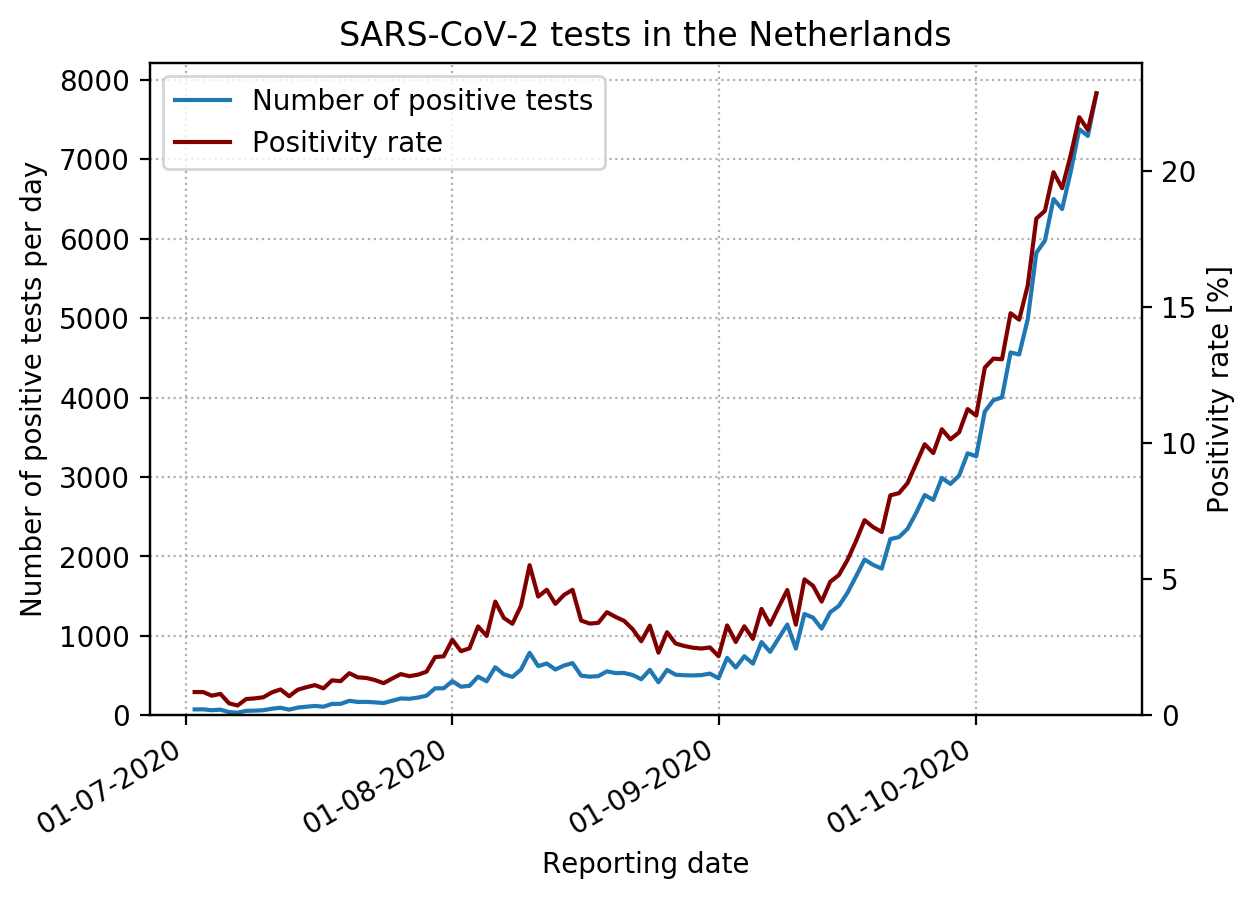
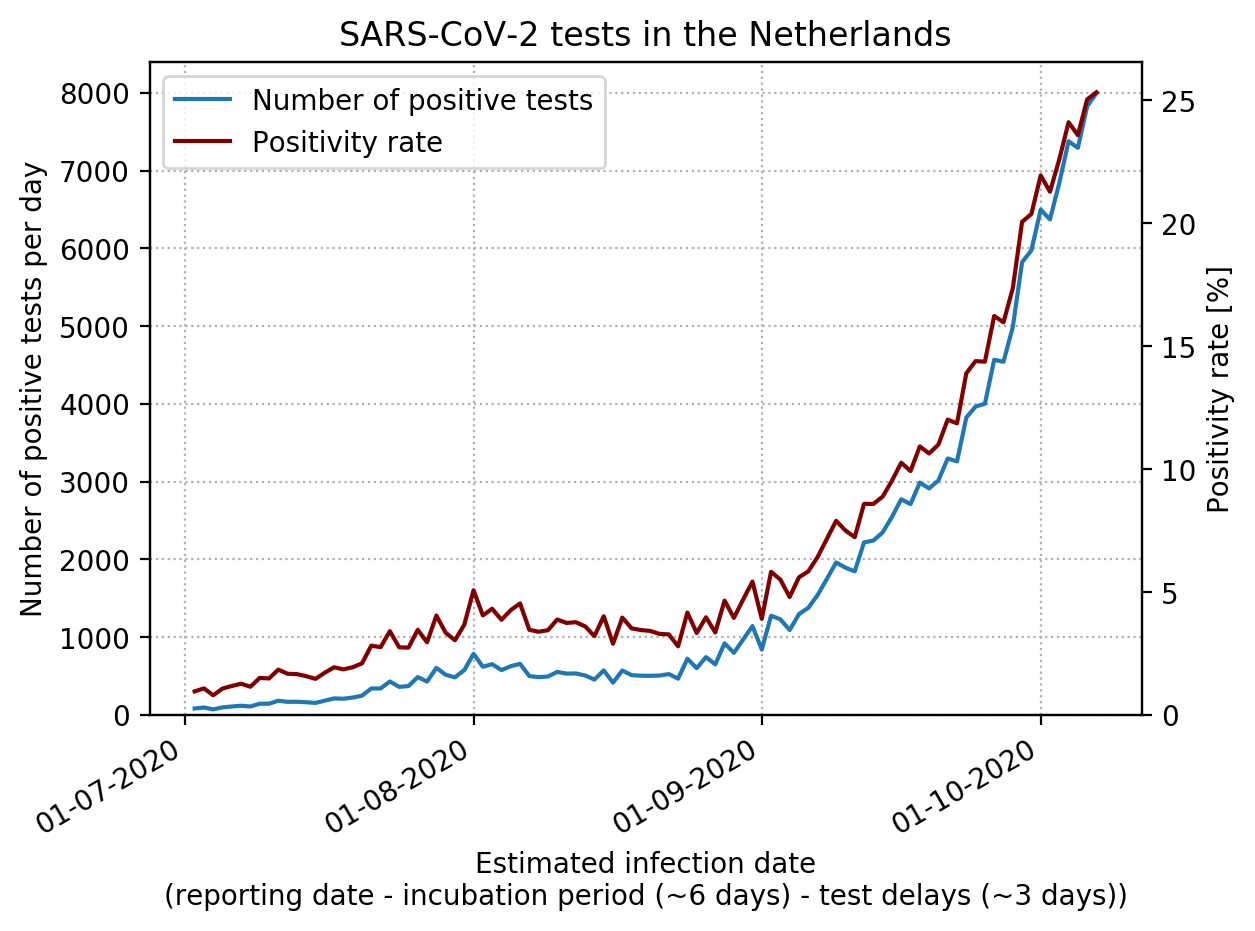
Applied the correction for the incubation period and test delays in the daily results loading function

diff --git a/model_coronavirus_supression.py b/model_coronavirus_supression.py
@@ -170,7 +170,7 @@ def load_mobility_data(smooth = False):
 
 	return df_google_mob
 
-def load_daily_covid():
+def load_daily_covid(correct_for_delay = False):
 	url_daily_covid = 'https://data.rivm.nl/covid-19/COVID-19_aantallen_gemeente_per_dag.csv'
 	fname_daily_covid = f'{dataloc}positieve_tests.csv'
 
@@ -187,6 +187,21 @@ def load_daily_covid():
 
 	#aggregate over the dates
 	df_daily_covid = df_daily_covid.groupby(['Date']).sum()
+
+	if correct_for_delay:
+		### correct for the delay between the onset of symptoms and the result of the test
+		#for source of incubation period, see the readme
+		incubation_period = 6 #days, left of average of 8.3 due to extremely skewed distribution
+		#test delay determined from anecdotal evidence
+		test_delay = 3 #days
+
+		#convert to int for easier data analysis (otherwise we need to interpolate to hours etc)
+		total_delay = int(incubation_period + test_delay)
+
+		# df_daily_covid['total_delay'] = np.repeat(total_delay, len(df_daily_covid))
+
+		#apply the correction to the testing data
+		df_daily_covid.index = df_daily_covid.index - pd.Timedelta(f'{total_delay} day')
 
 	return df_daily_covid
 
@@ -439,7 +454,7 @@ def plot_daily_results():
 	"""
 	Plot up to date test results
 	"""
-	df_daily_covid = load_daily_covid()
+	df_daily_covid = load_daily_covid(correct_for_delay = True)
 	df_n_tests = load_number_of_tests()
 
 	#merge datasets
@@ -469,7 +484,7 @@ def plot_daily_results():
 	labs = [l.get_label() for l in lns]
 	ax1.legend(lns, labs, loc='best')
 
-	ax1.set_xlabel('Reporting date')
+	ax1.set_xlabel('Estimated infection date\n(reporting date - incubation period (~6 days) - test delays (~3 days))')
 	ax1.set_ylabel('Number of positive tests per day')
 	ax2.set_ylabel('Positivity rate [%]')
 
@@ -827,7 +842,7 @@ def estimate_recent_prevalence():
 	"""
 	Estimate the recent prevalence based on the test positivity ratio
 	"""
-	df_daily_covid = load_daily_covid()
+	df_daily_covid = load_daily_covid(correct_for_delay = True)
 	df_n_tests = load_number_of_tests()
 	df_prevalence, df_R0 = load_prevalence_R0_data()
 	df_sewage = load_sewage_data(smooth = True, shiftdates = False)
@@ -836,20 +851,6 @@ def estimate_recent_prevalence():
 	df_prevalence['prev_abs_error'] = ((df_prevalence['prev_low'] - df_prevalence['prev_avg']).abs() + (df_prevalence['prev_up'] - df_prevalence['prev_avg']).abs())/2
 
 	df_daily_covid['Total_per_million'] = df_daily_covid['Total_reported'] * per_million_factor
-
-	### correct for the delay between the onset of symptoms and the result of the test
-	#for source of incubation period, see the readme
-	incubation_period = 6 #days
-	#test delay determined from anecdotal evidence
-	test_delay = 3 #days
-
-	#convert to int for easier data analysis (otherwise we need to interpolate to hours etc)
-	total_delay = int(incubation_period + test_delay)
-
-	df_daily_covid['test_delay'] = np.repeat(test_delay, len(df_daily_covid))
-
-	#apply the correction to the testing data
-	df_daily_covid.index = df_daily_covid.index - pd.Timedelta(f'{total_delay} day')
 
 	#merge testing and sewage data
 	df_predictors = df_daily_covid.merge(df_sewage[['RNA_per_ml_smooth']], right_index = True, left_index = True)
